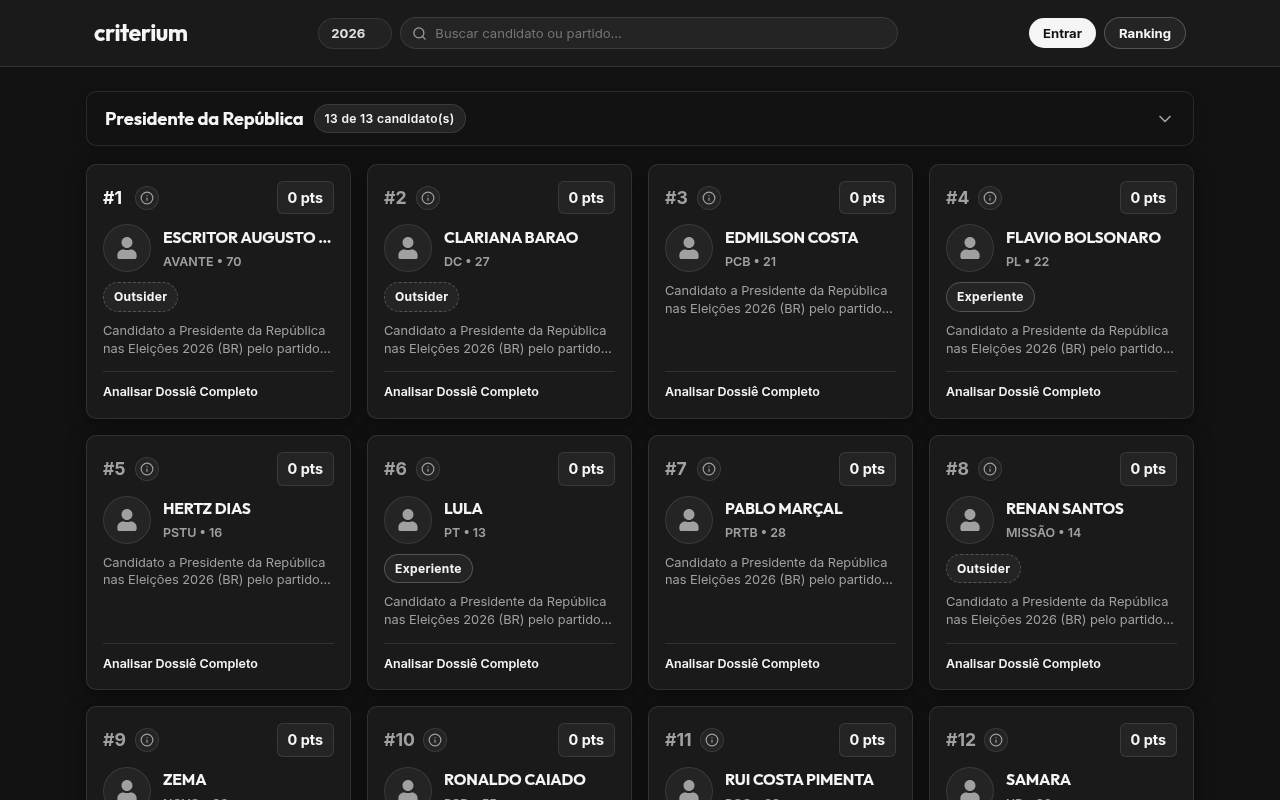
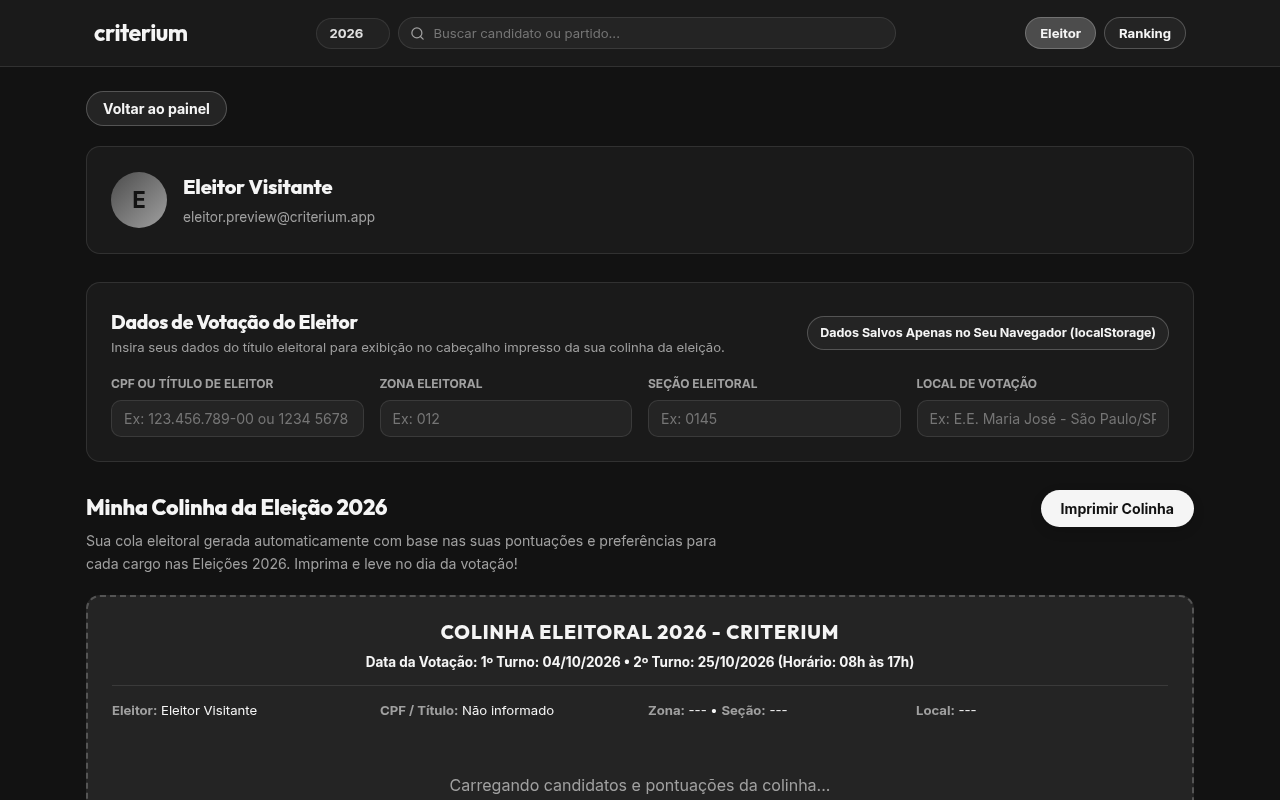
fix(account-screenshots): generate authentic user account page screenshots for desktop and mobile

diff --git a/tests/src/captureAccountScreenshots.ts b/tests/src/captureAccountScreenshots.ts
@@ -5,8 +5,47 @@ import { spawn, ChildProcess } from 'child_process';
 
 const delay = (ms: number) => new Promise((resolve) => setTimeout(resolve, ms));
 
+async function getRealAuthData(): Promise<{ user: any; token: string } | null> {
+  const email = 'eleitor.preview@criterium.app';
+  const password = 'SenhaSegura123!';
+  const name = 'Eleitor Visitante';
+
+  try {
+    const loginRes = await fetch('http://localhost:4000/api/auth/login', {
+      method: 'POST',
+      headers: { 'Content-Type': 'application/json' },
+      body: JSON.stringify({ email, password }),
+    });
+    if (loginRes.ok) {
+      const data = await loginRes.json();
+      return { user: data.user, token: data.token };
+    }
+  } catch (e) {}
+
+  try {
+    const regRes = await fetch('http://localhost:4000/api/auth/register', {
+      method: 'POST',
+      headers: { 'Content-Type': 'application/json' },
+      body: JSON.stringify({ email, password, name }),
+    });
+    if (regRes.ok) {
+      const data = await regRes.json();
+      return { user: data.user, token: data.token };
+    }
+  } catch (e) {}
+
+  return null;
+}
+
 async function main() {
-  console.log('📸 [Account Screenshots Automation] Capturando telas reais da Conta (Desktop & Mobile)...');
+  console.log('📸 [Account Screenshots Automation] Obotendo autenticação do backend na porta 4000...');
+
+  const authData = await getRealAuthData();
+  if (!authData) {
+    console.error('❌ Erro: Não foi possível obter autenticação válida do backend.');
+    process.exit(1);
+  }
+  console.log(`  ✅ Autenticado como: ${authData.user.name} (${authData.user.email})`);
 
   const frontendDir = '/home/henrik/workspace/Criterium/frontend';
   const assetsDir = path.join(frontendDir, 'src', 'assets');
@@ -28,14 +67,6 @@ async function main() {
       args: ['--no-sandbox', '--disable-setuid-sandbox', '--headless=new'],
     });
 
-    const mockUser = {
-      id: 'demo-user-123',
-      name: 'Eleitor Visitante',
-      email: 'eleitor@criterium.app',
-      createdAt: '2026-01-01T00:00:00.000Z',
-    };
-    const mockToken = 'mock_demo_jwt_token';
-
     // ----------------------------------------
     // 1. CAPTURA DESKTOP (1280 x 800)
     // ----------------------------------------
@@ -44,33 +75,40 @@ async function main() {
     await desktopPage.setViewport({ width: 1280, height: 800 });
     await desktopPage.goto('http://localhost:4173', { waitUntil: 'networkidle0' });
 
-    // Inject mock user state in localStorage and mark onboarding completed
+    // Inject valid user state and JWT token in localStorage
     await desktopPage.evaluate((userObj, tokenStr) => {
       localStorage.setItem('criterium_user', JSON.stringify(userObj));
       localStorage.setItem('criterium_token', tokenStr);
       localStorage.setItem('criterium_onboarding_completed', 'true');
-    }, mockUser, mockToken);
+      localStorage.setItem('criterium_pwa_modal_dismissed', 'true');
+    }, authData.user, authData.token);
 
     await desktopPage.reload({ waitUntil: 'networkidle0' });
-    await delay(1000);
+    await delay(1500);
+
+    // Wait until header shows logged in user
+    await desktopPage.waitForFunction(() => {
+      const btns = Array.from(document.querySelectorAll('button'));
+      return btns.some(b => (b.textContent || '').includes('Eleitor'));
+    }, { timeout: 5000 });
 
     // Open User Dropdown menu in Header
     await desktopPage.evaluate(() => {
-      const userBtn = Array.from(document.querySelectorAll('button')).find(b =>
+      const btns = Array.from(document.querySelectorAll('button'));
+      const userBtn = btns.find(b =>
         (b.textContent || '').includes('Eleitor') || (b.getAttribute('title') || '').includes('Menu de Conta')
       );
       if (userBtn) (userBtn as HTMLElement).click();
     });
-    await delay(500);
+    await delay(800);
 
     // Click "Minha Conta" inside dropdown
     await desktopPage.evaluate(() => {
-      const accountBtn = Array.from(document.querySelectorAll('button')).find(b =>
-        (b.textContent || '').includes('Minha Conta')
-      );
+      const btns = Array.from(document.querySelectorAll('button'));
+      const accountBtn = btns.find(b => (b.textContent || '').includes('Minha Conta'));
       if (accountBtn) (accountBtn as HTMLElement).click();
     });
-    await delay(2000);
+    await delay(2500);
 
     const desktopPath = path.join(assetsDir, 'account_preview_desktop.png');
     await desktopPage.screenshot({ path: desktopPath });
@@ -88,19 +126,25 @@ async function main() {
       localStorage.setItem('criterium_user', JSON.stringify(userObj));
       localStorage.setItem('criterium_token', tokenStr);
       localStorage.setItem('criterium_onboarding_completed', 'true');
-    }, mockUser, mockToken);
+      localStorage.setItem('criterium_pwa_modal_dismissed', 'true');
+    }, authData.user, authData.token);
 
     await mobilePage.reload({ waitUntil: 'networkidle0' });
-    await delay(1000);
+    await delay(1500);
+
+    // Wait until bottom nav shows logged in user
+    await mobilePage.waitForFunction(() => {
+      const btns = Array.from(document.querySelectorAll('nav button'));
+      return btns.some(b => (b.textContent || '').includes('Eleitor'));
+    }, { timeout: 5000 });
 
     // Click on Account tab in Mobile Bottom Nav
     await mobilePage.evaluate(() => {
-      const userBtn = Array.from(document.querySelectorAll('nav button, button')).find(b =>
-        (b.textContent || '').includes('Eleitor')
-      );
+      const btns = Array.from(document.querySelectorAll('nav button'));
+      const userBtn = btns.find(b => (b.textContent || '').includes('Eleitor'));
       if (userBtn) (userBtn as HTMLElement).click();
     });
-    await delay(2000);
+    await delay(2500);
 
     const mobilePath = path.join(assetsDir, 'account_preview_mobile.png');
     await mobilePage.screenshot({ path: mobilePath });
